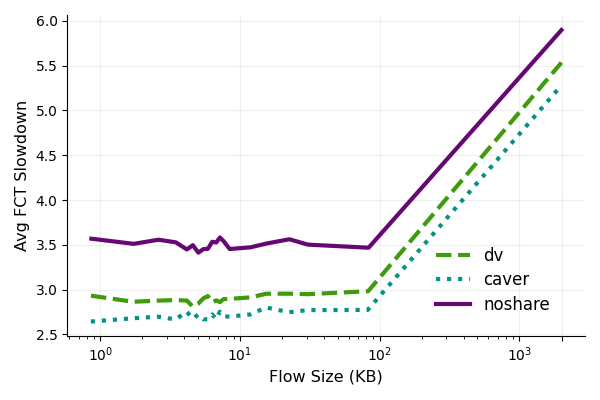
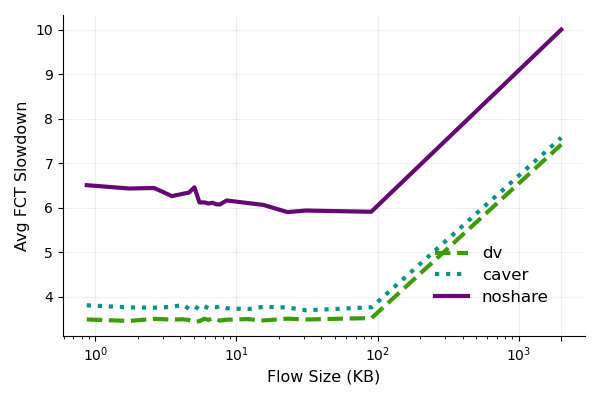
debug noshare

diff --git a/ns-allinone-3.19/ns-3.19/show/show_breakdown.py b/ns-allinone-3.19/ns-3.19/show/show_breakdown.py
@@ -1,0 +1,63 @@
+import subprocess
+
+def read_fct_slowdowns(file_path, time_start, time_end):
+    """
+    读取符合时间范围要求的流完成时间 (FCT) slowdown，并计算平均值。
+
+    :param file_path: 文件路径
+    :param time_start: 起始时间（纳秒）
+    :param time_end: 结束时间（纳秒）
+    :return: 平均 slowdown 和所有 slowdown 的列表
+    """
+    slowdown_data = []
+
+    try:
+        with open(file_path, 'r') as file:
+            for line in file:
+                fields = line.split()
+                if len(fields) < 8:
+                    continue
+
+                start_time = int(fields[5])
+                duration = int(fields[6])
+                ideal_duration = int(fields[7])
+
+                if start_time > time_start and start_time + duration < time_end:
+                    slowdown = duration / ideal_duration
+                    slowdown_data.append(max(slowdown, 1.0))
+
+        # 计算平均值
+        if slowdown_data:
+            avg_slowdown = sum(slowdown_data) / len(slowdown_data)
+        else:
+            avg_slowdown = 0.0  # 如果没有数据，返回 0.0
+
+        return avg_slowdown, slowdown_data
+    except IOError as e:
+        print("Error reading file:", e)
+        return 0.0, []
+import matplotlib.pyplot as plt
+
+name_list = ["Caver w/o Information sharing", "Caver w/o acceptable path", "Caver"]
+id_list = [826081416, 790046701, 265452215]
+avg_slowdowns = []
+
+time_start = int(2.000 * 1e9)  # 起始时间（纳秒）
+time_end = int(3.0 * 1e9)      # 结束时间（纳秒）
+
+# 计算每个 id 的 slowdown 平均值
+for id in id_list:
+    file_path = f"../mix/output/{id}/{id}_out_fct.txt"
+    avg_slowdown, slowdowns = read_fct_slowdowns(file_path, time_start, time_end)
+    avg_slowdowns.append(avg_slowdown)
+
+# 画柱状图
+plt.figure(figsize=(10, 6))
+plt.bar(name_list, avg_slowdowns, color=['blue', 'orange', 'green'])
+plt.xlabel('Configuration')
+plt.ylabel('Average Slowdown')
+plt.title('Average FCT Slowdown for Different Configurations')
+plt.legend(name_list)
+plt.show()
+# 保存图像为 PNG 文件
+plt.savefig('average_slowdown.png')

diff --git a/ns-allinone-3.19/ns-3.19/src/point-to-point/model/caver-routing.h b/ns-allinone-3.19/ns-3.19/src/point-to-point/model/caver-routing.h
@@ -202,7 +202,8 @@ class CaverRouting : public Object {
     bool Dre_decrease_log = false;//DreTable中的X值的减小情况
     bool flowlet_log = false; //在flowlet过期时打印的log
     bool Dre_debug = false; //查看Dre，尤其是CE的计算是否存在bug
-    bool show_pathchoice_detail = true;//显示PathChoiceTable中的详细信息
+    bool show_pathchoice_detail = false;//显示PathChoiceTable中的详细信息
+    
 
     //method
     bool ToR_Rouding = true;
